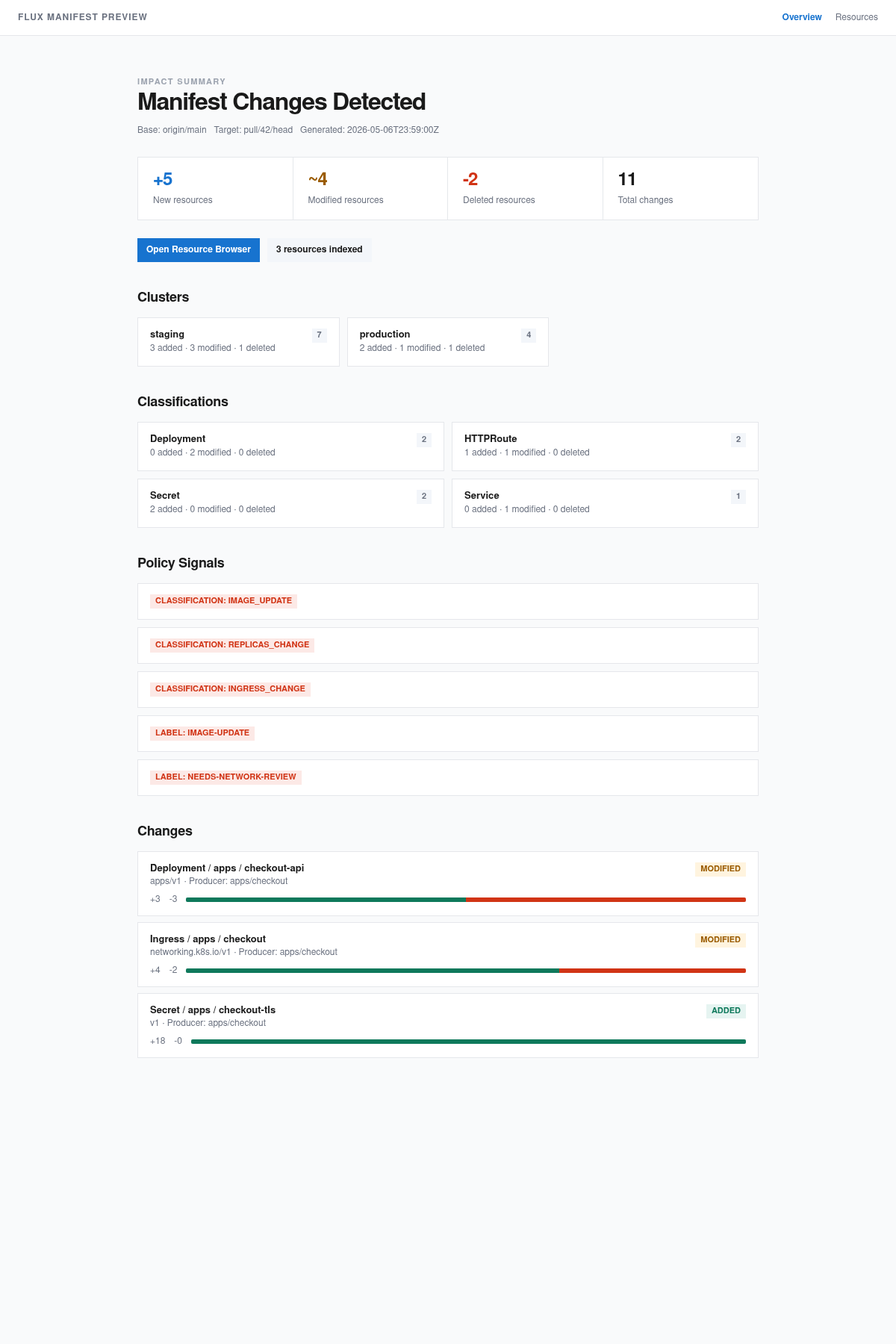
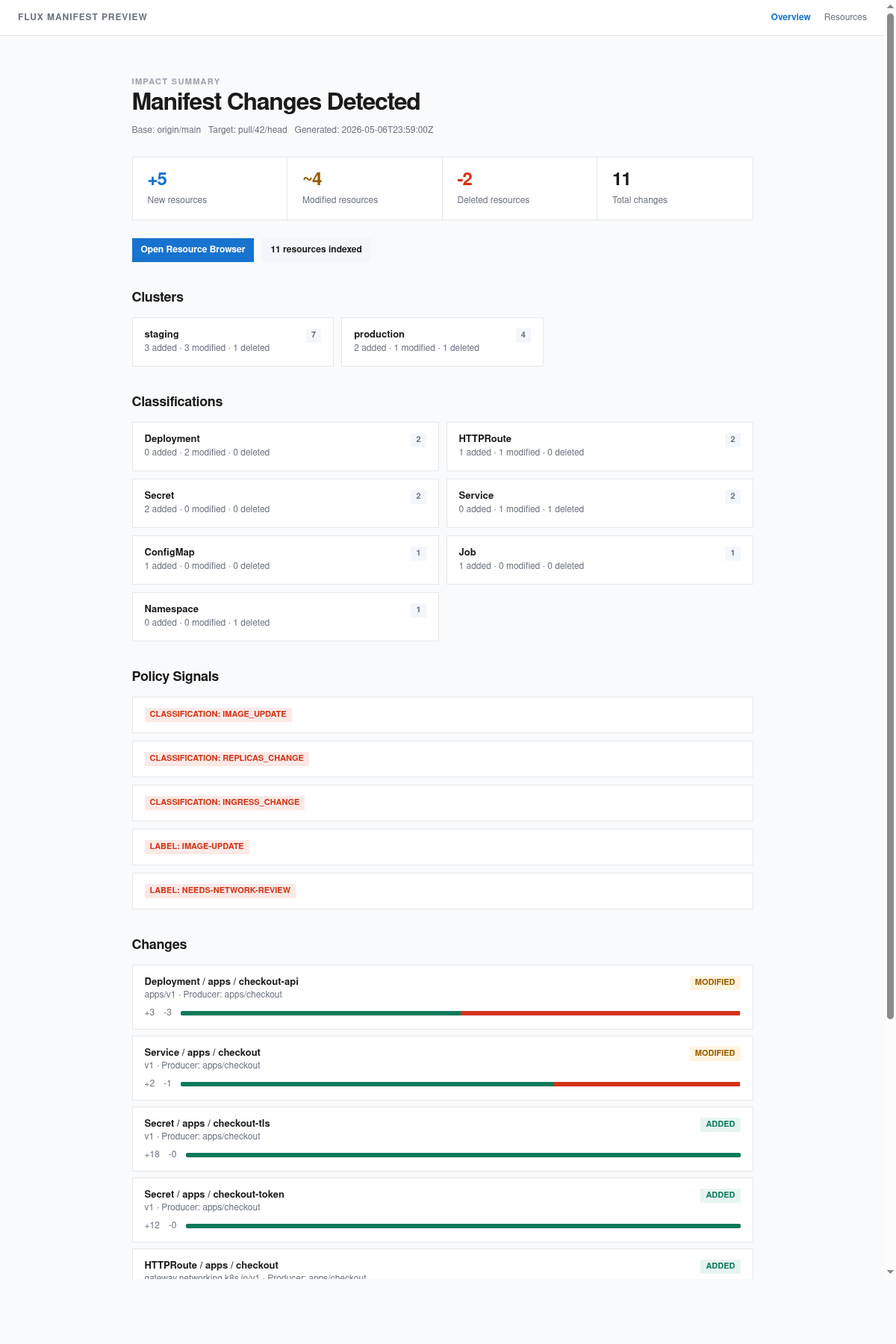
docs: make sample report data consistent

diff --git a/docs/examples/fmp-report-example.html b/docs/examples/fmp-report-example.html
@@ -211,7 +211,7 @@ input, select { background: var(--input-bg); border: 1px solid var(--border); co
     </nav>
   </header>
   <main id="app" class="app" tabindex="-1"></main>
-  <script type="application/json" id="fmp-report-data">{"meta":{"status":"changed","generatedAt":"2026-05-06T23:59:00Z","base":"origin/main","target":"pull/42/head","diffBytes":18432,"diffTruncated":false},"summary":{"added":5,"modified":4,"deleted":2,"total":11,"kindBreakdown":{"Deployment":{"added":0,"modified":2,"deleted":0,"total":2},"HTTPRoute":{"added":1,"modified":1,"deleted":0,"total":2},"Secret":{"added":2,"modified":0,"deleted":0,"total":2},"Service":{"added":0,"modified":1,"deleted":0,"total":1}},"clusterBreakdown":{"production":{"added":2,"modified":1,"deleted":1,"total":4},"staging":{"added":3,"modified":3,"deleted":1,"total":7}}},"policies":{"classifications":[{"id":"image_update","severity":"info"},{"id":"replicas_change","severity":"warning"},{"id":"ingress_change","severity":"warning"}],"labels":["image-update","needs-network-review"],"policyFailed":false},"resources":[{"index":0,"id":"flux-system|apps/v1|Deployment|apps|checkout-api","action":"modified","cluster":"staging","apiVersion":"apps/v1","kind":"Deployment","namespace":"apps","name":"checkout-api","producer":"apps/checkout","addedLines":3,"deletedLines":3,"diffRows":[{"type":"hunk","oldText":"@@ -17,12 +17,12 @@","newText":"@@ -17,12 +17,12 @@"},{"type":"context","oldLine":17,"newLine":17,"oldText":"apiVersion: apps/v1","newText":"apiVersion: apps/v1"},{"type":"context","oldLine":18,"newLine":18,"oldText":"kind: Deployment","newText":"kind: Deployment"},{"type":"context","oldLine":19,"newLine":19,"oldText":"metadata:","newText":"metadata:"},{"type":"context","oldLine":20,"newLine":20,"oldText":"  name: checkout-api","newText":"  name: checkout-api"},{"type":"context","oldLine":21,"newLine":21,"oldText":"  namespace: apps","newText":"  namespace: apps"},{"type":"deleted","oldLine":22,"oldText":"  replicas: 2"},{"type":"added","newLine":22,"newText":"  replicas: 4"},{"type":"context","oldLine":23,"newLine":23,"oldText":"spec:","newText":"spec:"},{"type":"context","oldLine":24,"newLine":24,"oldText":"  template:","newText":"  template:"},{"type":"context","oldLine":25,"newLine":25,"oldText":"    spec:","newText":"    spec:"},{"type":"context","oldLine":26,"newLine":26,"oldText":"      containers:","newText":"      containers:"},{"type":"context","oldLine":27,"newLine":27,"oldText":"        - name: checkout-api","newText":"        - name: checkout-api"},{"type":"deleted","oldLine":28,"oldText":"          image: ghcr.io/example/checkout-api:1.12.0"},{"type":"added","newLine":28,"newText":"          image: ghcr.io/example/checkout-api:1.13.0"},{"type":"context","oldLine":29,"newLine":29,"oldText":"          ports:","newText":"          ports:"},{"type":"context","oldLine":30,"newLine":30,"oldText":"            - containerPort: 8080","newText":"            - containerPort: 8080"},{"type":"deleted","oldLine":31,"oldText":"          resources: {requests: {cpu: 100m, memory: 128Mi}}"},{"type":"added","newLine":31,"newText":"          resources: {requests: {cpu: 250m, memory: 256Mi}}"}]},{"index":1,"id":"flux-system|networking.k8s.io/v1|Ingress|apps|checkout","action":"modified","cluster":"production","apiVersion":"networking.k8s.io/v1","kind":"Ingress","namespace":"apps","name":"checkout","producer":"apps/checkout","addedLines":4,"deletedLines":2,"diffRows":[{"type":"hunk","oldText":"@@ -17,12 +17,12 @@","newText":"@@ -17,12 +17,12 @@"},{"type":"context","oldLine":17,"newLine":17,"oldText":"apiVersion: apps/v1","newText":"apiVersion: apps/v1"},{"type":"context","oldLine":18,"newLine":18,"oldText":"kind: Deployment","newText":"kind: Deployment"},{"type":"context","oldLine":19,"newLine":19,"oldText":"metadata:","newText":"metadata:"},{"type":"context","oldLine":20,"newLine":20,"oldText":"  name: checkout-api","newText":"  name: checkout-api"},{"type":"context","oldLine":21,"newLine":21,"oldText":"  namespace: apps","newText":"  namespace: apps"},{"type":"deleted","oldLine":22,"oldText":"  replicas: 2"},{"type":"added","newLine":22,"newText":"  replicas: 4"},{"type":"context","oldLine":23,"newLine":23,"oldText":"spec:","newText":"spec:"},{"type":"context","oldLine":24,"newLine":24,"oldText":"  template:","newText":"  template:"},{"type":"context","oldLine":25,"newLine":25,"oldText":"    spec:","newText":"    spec:"},{"type":"context","oldLine":26,"newLine":26,"oldText":"      containers:","newText":"      containers:"},{"type":"context","oldLine":27,"newLine":27,"oldText":"        - name: checkout-api","newText":"        - name: checkout-api"},{"type":"deleted","oldLine":28,"oldText":"          image: ghcr.io/example/checkout-api:1.12.0"},{"type":"added","newLine":28,"newText":"          image: ghcr.io/example/checkout-api:1.13.0"},{"type":"context","oldLine":29,"newLine":29,"oldText":"          ports:","newText":"          ports:"},{"type":"context","oldLine":30,"newLine":30,"oldText":"            - containerPort: 8080","newText":"            - containerPort: 8080"},{"type":"deleted","oldLine":31,"oldText":"          resources: {requests: {cpu: 100m, memory: 128Mi}}"},{"type":"added","newLine":31,"newText":"          resources: {requests: {cpu: 250m, memory: 256Mi}}"}]},{"index":2,"id":"flux-system|v1|Secret|apps|checkout-tls","action":"added","cluster":"staging","apiVersion":"v1","kind":"Secret","namespace":"apps","name":"checkout-tls","producer":"apps/checkout","addedLines":18,"deletedLines":0,"diffRows":[{"type":"hunk","oldText":"@@ -17,12 +17,12 @@","newText":"@@ -17,12 +17,12 @@"},{"type":"context","oldLine":17,"newLine":17,"oldText":"apiVersion: apps/v1","newText":"apiVersion: apps/v1"},{"type":"context","oldLine":18,"newLine":18,"oldText":"kind: Deployment","newText":"kind: Deployment"},{"type":"context","oldLine":19,"newLine":19,"oldText":"metadata:","newText":"metadata:"},{"type":"context","oldLine":20,"newLine":20,"oldText":"  name: checkout-api","newText":"  name: checkout-api"},{"type":"context","oldLine":21,"newLine":21,"oldText":"  namespace: apps","newText":"  namespace: apps"},{"type":"deleted","oldLine":22,"oldText":"  replicas: 2"},{"type":"added","newLine":22,"newText":"  replicas: 4"},{"type":"context","oldLine":23,"newLine":23,"oldText":"spec:","newText":"spec:"},{"type":"context","oldLine":24,"newLine":24,"oldText":"  template:","newText":"  template:"},{"type":"context","oldLine":25,"newLine":25,"oldText":"    spec:","newText":"    spec:"},{"type":"context","oldLine":26,"newLine":26,"oldText":"      containers:","newText":"      containers:"},{"type":"context","oldLine":27,"newLine":27,"oldText":"        - name: checkout-api","newText":"        - name: checkout-api"},{"type":"deleted","oldLine":28,"oldText":"          image: ghcr.io/example/checkout-api:1.12.0"},{"type":"added","newLine":28,"newText":"          image: ghcr.io/example/checkout-api:1.13.0"},{"type":"context","oldLine":29,"newLine":29,"oldText":"          ports:","newText":"          ports:"},{"type":"context","oldLine":30,"newLine":30,"oldText":"            - containerPort: 8080","newText":"            - containerPort: 8080"},{"type":"deleted","oldLine":31,"oldText":"          resources: {requests: {cpu: 100m, memory: 128Mi}}"},{"type":"added","newLine":31,"newText":"          resources: {requests: {cpu: 250m, memory: 256Mi}}"}]}]}</script>
+  <script type="application/json" id="fmp-report-data">{"meta":{"status":"changed","generatedAt":"2026-05-06T23:59:00Z","base":"origin/main","target":"pull/42/head","diffBytes":18432,"diffTruncated":false},"summary":{"added":5,"modified":4,"deleted":2,"total":11,"kindBreakdown":{"ConfigMap":{"added":1,"modified":0,"deleted":0,"total":1},"Deployment":{"added":0,"modified":2,"deleted":0,"total":2},"HTTPRoute":{"added":1,"modified":1,"deleted":0,"total":2},"Job":{"added":1,"modified":0,"deleted":0,"total":1},"Namespace":{"added":0,"modified":0,"deleted":1,"total":1},"Secret":{"added":2,"modified":0,"deleted":0,"total":2},"Service":{"added":0,"modified":1,"deleted":1,"total":2}},"clusterBreakdown":{"production":{"added":2,"modified":1,"deleted":1,"total":4},"staging":{"added":3,"modified":3,"deleted":1,"total":7}}},"policies":{"classifications":[{"id":"image_update","severity":"info"},{"id":"replicas_change","severity":"warning"},{"id":"ingress_change","severity":"warning"}],"labels":["image-update","needs-network-review"],"policyFailed":false},"resources":[{"index":0,"id":"apps/checkout|apps/v1|Deployment|apps|checkout-api","action":"modified","cluster":"staging","apiVersion":"apps/v1","kind":"Deployment","namespace":"apps","name":"checkout-api","producer":"apps/checkout","addedLines":3,"deletedLines":3,"diffRows":[{"type":"hunk","oldText":"@@ -17,12 +17,12 @@","newText":"@@ -17,12 +17,12 @@"},{"type":"context","oldLine":17,"newLine":17,"oldText":"apiVersion: apps/v1","newText":"apiVersion: apps/v1"},{"type":"context","oldLine":18,"newLine":18,"oldText":"kind: Deployment","newText":"kind: Deployment"},{"type":"context","oldLine":19,"newLine":19,"oldText":"metadata:","newText":"metadata:"},{"type":"context","oldLine":20,"newLine":20,"oldText":"  name: checkout-api","newText":"  name: checkout-api"},{"type":"context","oldLine":21,"newLine":21,"oldText":"  namespace: apps","newText":"  namespace: apps"},{"type":"deleted","oldLine":22,"oldText":"  replicas: 2"},{"type":"added","newLine":22,"newText":"  replicas: 4"},{"type":"context","oldLine":23,"newLine":23,"oldText":"spec:","newText":"spec:"},{"type":"context","oldLine":24,"newLine":24,"oldText":"  template:","newText":"  template:"},{"type":"context","oldLine":25,"newLine":25,"oldText":"    spec:","newText":"    spec:"},{"type":"context","oldLine":26,"newLine":26,"oldText":"      containers:","newText":"      containers:"},{"type":"context","oldLine":27,"newLine":27,"oldText":"        - name: checkout-api","newText":"        - name: checkout-api"},{"type":"deleted","oldLine":28,"oldText":"          image: ghcr.io/example/checkout-api:1.12.0"},{"type":"added","newLine":28,"newText":"          image: ghcr.io/example/checkout-api:1.13.0"},{"type":"context","oldLine":29,"newLine":29,"oldText":"          ports:","newText":"          ports:"},{"type":"context","oldLine":30,"newLine":30,"oldText":"            - containerPort: 8080","newText":"            - containerPort: 8080"}]},{"index":1,"id":"apps/checkout|v1|Service|apps|checkout","action":"modified","cluster":"staging","apiVersion":"v1","kind":"Service","namespace":"apps","name":"checkout","producer":"apps/checkout","addedLines":2,"deletedLines":1,"diffRows":[{"type":"hunk","oldText":"@@ -17,12 +17,12 @@","newText":"@@ -17,12 +17,12 @@"},{"type":"context","oldLine":17,"newLine":17,"oldText":"apiVersion: apps/v1","newText":"apiVersion: apps/v1"},{"type":"context","oldLine":18,"newLine":18,"oldText":"kind: Deployment","newText":"kind: Deployment"},{"type":"context","oldLine":19,"newLine":19,"oldText":"metadata:","newText":"metadata:"},{"type":"context","oldLine":20,"newLine":20,"oldText":"  name: checkout","newText":"  name: checkout"},{"type":"context","oldLine":21,"newLine":21,"oldText":"  namespace: apps","newText":"  namespace: apps"},{"type":"deleted","oldLine":22,"oldText":"  replicas: 2"},{"type":"added","newLine":22,"newText":"  replicas: 4"},{"type":"context","oldLine":23,"newLine":23,"oldText":"spec:","newText":"spec:"},{"type":"context","oldLine":24,"newLine":24,"oldText":"  template:","newText":"  template:"},{"type":"context","oldLine":25,"newLine":25,"oldText":"    spec:","newText":"    spec:"},{"type":"context","oldLine":26,"newLine":26,"oldText":"      containers:","newText":"      containers:"},{"type":"context","oldLine":27,"newLine":27,"oldText":"        - name: checkout","newText":"        - name: checkout"},{"type":"deleted","oldLine":28,"oldText":"          image: ghcr.io/example/checkout:1.12.0"},{"type":"added","newLine":28,"newText":"          image: ghcr.io/example/checkout:1.13.0"},{"type":"context","oldLine":29,"newLine":29,"oldText":"          ports:","newText":"          ports:"},{"type":"context","oldLine":30,"newLine":30,"oldText":"            - containerPort: 8080","newText":"            - containerPort: 8080"}]},{"index":2,"id":"apps/checkout|v1|Secret|apps|checkout-tls","action":"added","cluster":"staging","apiVersion":"v1","kind":"Secret","namespace":"apps","name":"checkout-tls","producer":"apps/checkout","addedLines":18,"deletedLines":0,"diffRows":[{"type":"hunk","oldText":"@@ -17,12 +17,12 @@","newText":"@@ -17,12 +17,12 @@"},{"type":"context","oldLine":17,"newLine":17,"oldText":"apiVersion: apps/v1","newText":"apiVersion: apps/v1"},{"type":"context","oldLine":18,"newLine":18,"oldText":"kind: Deployment","newText":"kind: Deployment"},{"type":"context","oldLine":19,"newLine":19,"oldText":"metadata:","newText":"metadata:"},{"type":"context","oldLine":20,"newLine":20,"oldText":"  name: checkout-tls","newText":"  name: checkout-tls"},{"type":"context","oldLine":21,"newLine":21,"oldText":"  namespace: apps","newText":"  namespace: apps"},{"type":"deleted","oldLine":22,"oldText":"  replicas: 2"},{"type":"added","newLine":22,"newText":"  replicas: 4"},{"type":"context","oldLine":23,"newLine":23,"oldText":"spec:","newText":"spec:"},{"type":"context","oldLine":24,"newLine":24,"oldText":"  template:","newText":"  template:"},{"type":"context","oldLine":25,"newLine":25,"oldText":"    spec:","newText":"    spec:"},{"type":"context","oldLine":26,"newLine":26,"oldText":"      containers:","newText":"      containers:"},{"type":"context","oldLine":27,"newLine":27,"oldText":"        - name: checkout-tls","newText":"        - name: checkout-tls"},{"type":"deleted","oldLine":28,"oldText":"          image: ghcr.io/example/checkout-tls:1.12.0"},{"type":"added","newLine":28,"newText":"          image: ghcr.io/example/checkout-tls:1.13.0"},{"type":"context","oldLine":29,"newLine":29,"oldText":"          ports:","newText":"          ports:"},{"type":"context","oldLine":30,"newLine":30,"oldText":"            - containerPort: 8080","newText":"            - containerPort: 8080"}]},{"index":3,"id":"apps/checkout|v1|Secret|apps|checkout-token","action":"added","cluster":"staging","apiVersion":"v1","kind":"Secret","namespace":"apps","name":"checkout-token","producer":"apps/checkout","addedLines":12,"deletedLines":0,"diffRows":[{"type":"hunk","oldText":"@@ -17,12 +17,12 @@","newText":"@@ -17,12 +17,12 @@"},{"type":"context","oldLine":17,"newLine":17,"oldText":"apiVersion: apps/v1","newText":"apiVersion: apps/v1"},{"type":"context","oldLine":18,"newLine":18,"oldText":"kind: Deployment","newText":"kind: Deployment"},{"type":"context","oldLine":19,"newLine":19,"oldText":"metadata:","newText":"metadata:"},{"type":"context","oldLine":20,"newLine":20,"oldText":"  name: checkout-token","newText":"  name: checkout-token"},{"type":"context","oldLine":21,"newLine":21,"oldText":"  namespace: apps","newText":"  namespace: apps"},{"type":"deleted","oldLine":22,"oldText":"  replicas: 2"},{"type":"added","newLine":22,"newText":"  replicas: 4"},{"type":"context","oldLine":23,"newLine":23,"oldText":"spec:","newText":"spec:"},{"type":"context","oldLine":24,"newLine":24,"oldText":"  template:","newText":"  template:"},{"type":"context","oldLine":25,"newLine":25,"oldText":"    spec:","newText":"    spec:"},{"type":"context","oldLine":26,"newLine":26,"oldText":"      containers:","newText":"      containers:"},{"type":"context","oldLine":27,"newLine":27,"oldText":"        - name: checkout-token","newText":"        - name: checkout-token"},{"type":"deleted","oldLine":28,"oldText":"          image: ghcr.io/example/checkout-token:1.12.0"},{"type":"added","newLine":28,"newText":"          image: ghcr.io/example/checkout-token:1.13.0"},{"type":"context","oldLine":29,"newLine":29,"oldText":"          ports:","newText":"          ports:"},{"type":"context","oldLine":30,"newLine":30,"oldText":"            - containerPort: 8080","newText":"            - containerPort: 8080"}]},{"index":4,"id":"apps/checkout|gateway.networking.k8s.io/v1|HTTPRoute|apps|checkout","action":"added","cluster":"staging","apiVersion":"gateway.networking.k8s.io/v1","kind":"HTTPRoute","namespace":"apps","name":"checkout","producer":"apps/checkout","addedLines":9,"deletedLines":0,"diffRows":[{"type":"hunk","oldText":"@@ -17,12 +17,12 @@","newText":"@@ -17,12 +17,12 @@"},{"type":"context","oldLine":17,"newLine":17,"oldText":"apiVersion: apps/v1","newText":"apiVersion: apps/v1"},{"type":"context","oldLine":18,"newLine":18,"oldText":"kind: Deployment","newText":"kind: Deployment"},{"type":"context","oldLine":19,"newLine":19,"oldText":"metadata:","newText":"metadata:"},{"type":"context","oldLine":20,"newLine":20,"oldText":"  name: checkout","newText":"  name: checkout"},{"type":"context","oldLine":21,"newLine":21,"oldText":"  namespace: apps","newText":"  namespace: apps"},{"type":"deleted","oldLine":22,"oldText":"  replicas: 2"},{"type":"added","newLine":22,"newText":"  replicas: 4"},{"type":"context","oldLine":23,"newLine":23,"oldText":"spec:","newText":"spec:"},{"type":"context","oldLine":24,"newLine":24,"oldText":"  template:","newText":"  template:"},{"type":"context","oldLine":25,"newLine":25,"oldText":"    spec:","newText":"    spec:"},{"type":"context","oldLine":26,"newLine":26,"oldText":"      containers:","newText":"      containers:"},{"type":"context","oldLine":27,"newLine":27,"oldText":"        - name: checkout","newText":"        - name: checkout"},{"type":"deleted","oldLine":28,"oldText":"          image: ghcr.io/example/checkout:1.12.0"},{"type":"added","newLine":28,"newText":"          image: ghcr.io/example/checkout:1.13.0"},{"type":"context","oldLine":29,"newLine":29,"oldText":"          ports:","newText":"          ports:"},{"type":"context","oldLine":30,"newLine":30,"oldText":"            - containerPort: 8080","newText":"            - containerPort: 8080"}]},{"index":5,"id":"apps/payments|gateway.networking.k8s.io/v1|HTTPRoute|apps|payments","action":"modified","cluster":"staging","apiVersion":"gateway.networking.k8s.io/v1","kind":"HTTPRoute","namespace":"apps","name":"payments","producer":"apps/payments","addedLines":4,"deletedLines":2,"diffRows":[{"type":"hunk","oldText":"@@ -17,12 +17,12 @@","newText":"@@ -17,12 +17,12 @@"},{"type":"context","oldLine":17,"newLine":17,"oldText":"apiVersion: apps/v1","newText":"apiVersion: apps/v1"},{"type":"context","oldLine":18,"newLine":18,"oldText":"kind: Deployment","newText":"kind: Deployment"},{"type":"context","oldLine":19,"newLine":19,"oldText":"metadata:","newText":"metadata:"},{"type":"context","oldLine":20,"newLine":20,"oldText":"  name: payments","newText":"  name: payments"},{"type":"context","oldLine":21,"newLine":21,"oldText":"  namespace: apps","newText":"  namespace: apps"},{"type":"deleted","oldLine":22,"oldText":"  replicas: 2"},{"type":"added","newLine":22,"newText":"  replicas: 4"},{"type":"context","oldLine":23,"newLine":23,"oldText":"spec:","newText":"spec:"},{"type":"context","oldLine":24,"newLine":24,"oldText":"  template:","newText":"  template:"},{"type":"context","oldLine":25,"newLine":25,"oldText":"    spec:","newText":"    spec:"},{"type":"context","oldLine":26,"newLine":26,"oldText":"      containers:","newText":"      containers:"},{"type":"context","oldLine":27,"newLine":27,"oldText":"        - name: payments","newText":"        - name: payments"},{"type":"deleted","oldLine":28,"oldText":"          image: ghcr.io/example/payments:1.12.0"},{"type":"added","newLine":28,"newText":"          image: ghcr.io/example/payments:1.13.0"},{"type":"context","oldLine":29,"newLine":29,"oldText":"          ports:","newText":"          ports:"},{"type":"context","oldLine":30,"newLine":30,"oldText":"            - containerPort: 8080","newText":"            - containerPort: 8080"}]},{"index":6,"id":"platform/namespaces|v1|Namespace||legacy-preview","action":"deleted","cluster":"staging","apiVersion":"v1","kind":"Namespace","namespace":"","name":"legacy-preview","producer":"platform/namespaces","addedLines":0,"deletedLines":14,"diffRows":[{"type":"hunk","oldText":"@@ -17,12 +17,12 @@","newText":"@@ -17,12 +17,12 @@"},{"type":"context","oldLine":17,"newLine":17,"oldText":"apiVersion: apps/v1","newText":"apiVersion: apps/v1"},{"type":"context","oldLine":18,"newLine":18,"oldText":"kind: Deployment","newText":"kind: Deployment"},{"type":"context","oldLine":19,"newLine":19,"oldText":"metadata:","newText":"metadata:"},{"type":"context","oldLine":20,"newLine":20,"oldText":"  name: legacy-preview","newText":"  name: legacy-preview"},{"type":"context","oldLine":21,"newLine":21,"oldText":"  namespace: apps","newText":"  namespace: apps"},{"type":"deleted","oldLine":22,"oldText":"  replicas: 2"},{"type":"added","newLine":22,"newText":"  replicas: 4"},{"type":"context","oldLine":23,"newLine":23,"oldText":"spec:","newText":"spec:"},{"type":"context","oldLine":24,"newLine":24,"oldText":"  template:","newText":"  template:"},{"type":"context","oldLine":25,"newLine":25,"oldText":"    spec:","newText":"    spec:"},{"type":"context","oldLine":26,"newLine":26,"oldText":"      containers:","newText":"      containers:"},{"type":"context","oldLine":27,"newLine":27,"oldText":"        - name: legacy-preview","newText":"        - name: legacy-preview"},{"type":"deleted","oldLine":28,"oldText":"          image: ghcr.io/example/legacy-preview:1.12.0"},{"type":"added","newLine":28,"newText":"          image: ghcr.io/example/legacy-preview:1.13.0"},{"type":"context","oldLine":29,"newLine":29,"oldText":"          ports:","newText":"          ports:"},{"type":"context","oldLine":30,"newLine":30,"oldText":"            - containerPort: 8080","newText":"            - containerPort: 8080"}]},{"index":7,"id":"apps/payments|apps/v1|Deployment|apps|payments-api","action":"modified","cluster":"production","apiVersion":"apps/v1","kind":"Deployment","namespace":"apps","name":"payments-api","producer":"apps/payments","addedLines":2,"deletedLines":2,"diffRows":[{"type":"hunk","oldText":"@@ -17,12 +17,12 @@","newText":"@@ -17,12 +17,12 @@"},{"type":"context","oldLine":17,"newLine":17,"oldText":"apiVersion: apps/v1","newText":"apiVersion: apps/v1"},{"type":"context","oldLine":18,"newLine":18,"oldText":"kind: Deployment","newText":"kind: Deployment"},{"type":"context","oldLine":19,"newLine":19,"oldText":"metadata:","newText":"metadata:"},{"type":"context","oldLine":20,"newLine":20,"oldText":"  name: payments-api","newText":"  name: payments-api"},{"type":"context","oldLine":21,"newLine":21,"oldText":"  namespace: apps","newText":"  namespace: apps"},{"type":"deleted","oldLine":22,"oldText":"  replicas: 2"},{"type":"added","newLine":22,"newText":"  replicas: 4"},{"type":"context","oldLine":23,"newLine":23,"oldText":"spec:","newText":"spec:"},{"type":"context","oldLine":24,"newLine":24,"oldText":"  template:","newText":"  template:"},{"type":"context","oldLine":25,"newLine":25,"oldText":"    spec:","newText":"    spec:"},{"type":"context","oldLine":26,"newLine":26,"oldText":"      containers:","newText":"      containers:"},{"type":"context","oldLine":27,"newLine":27,"oldText":"        - name: payments-api","newText":"        - name: payments-api"},{"type":"deleted","oldLine":28,"oldText":"          image: ghcr.io/example/payments-api:1.12.0"},{"type":"added","newLine":28,"newText":"          image: ghcr.io/example/payments-api:1.13.0"},{"type":"context","oldLine":29,"newLine":29,"oldText":"          ports:","newText":"          ports:"},{"type":"context","oldLine":30,"newLine":30,"oldText":"            - containerPort: 8080","newText":"            - containerPort: 8080"}]},{"index":8,"id":"apps/legacy|v1|Service|apps|legacy-api","action":"deleted","cluster":"production","apiVersion":"v1","kind":"Service","namespace":"apps","name":"legacy-api","producer":"apps/legacy","addedLines":0,"deletedLines":11,"diffRows":[{"type":"hunk","oldText":"@@ -17,12 +17,12 @@","newText":"@@ -17,12 +17,12 @@"},{"type":"context","oldLine":17,"newLine":17,"oldText":"apiVersion: apps/v1","newText":"apiVersion: apps/v1"},{"type":"context","oldLine":18,"newLine":18,"oldText":"kind: Deployment","newText":"kind: Deployment"},{"type":"context","oldLine":19,"newLine":19,"oldText":"metadata:","newText":"metadata:"},{"type":"context","oldLine":20,"newLine":20,"oldText":"  name: legacy-api","newText":"  name: legacy-api"},{"type":"context","oldLine":21,"newLine":21,"oldText":"  namespace: apps","newText":"  namespace: apps"},{"type":"deleted","oldLine":22,"oldText":"  replicas: 2"},{"type":"added","newLine":22,"newText":"  replicas: 4"},{"type":"context","oldLine":23,"newLine":23,"oldText":"spec:","newText":"spec:"},{"type":"context","oldLine":24,"newLine":24,"oldText":"  template:","newText":"  template:"},{"type":"context","oldLine":25,"newLine":25,"oldText":"    spec:","newText":"    spec:"},{"type":"context","oldLine":26,"newLine":26,"oldText":"      containers:","newText":"      containers:"},{"type":"context","oldLine":27,"newLine":27,"oldText":"        - name: legacy-api","newText":"        - name: legacy-api"},{"type":"deleted","oldLine":28,"oldText":"          image: ghcr.io/example/legacy-api:1.12.0"},{"type":"added","newLine":28,"newText":"          image: ghcr.io/example/legacy-api:1.13.0"},{"type":"context","oldLine":29,"newLine":29,"oldText":"          ports:","newText":"          ports:"},{"type":"context","oldLine":30,"newLine":30,"oldText":"            - containerPort: 8080","newText":"            - containerPort: 8080"}]},{"index":9,"id":"apps/platform|v1|ConfigMap|apps|feature-flags","action":"added","cluster":"production","apiVersion":"v1","kind":"ConfigMap","namespace":"apps","name":"feature-flags","producer":"apps/platform","addedLines":7,"deletedLines":0,"diffRows":[{"type":"hunk","oldText":"@@ -17,12 +17,12 @@","newText":"@@ -17,12 +17,12 @@"},{"type":"context","oldLine":17,"newLine":17,"oldText":"apiVersion: apps/v1","newText":"apiVersion: apps/v1"},{"type":"context","oldLine":18,"newLine":18,"oldText":"kind: Deployment","newText":"kind: Deployment"},{"type":"context","oldLine":19,"newLine":19,"oldText":"metadata:","newText":"metadata:"},{"type":"context","oldLine":20,"newLine":20,"oldText":"  name: feature-flags","newText":"  name: feature-flags"},{"type":"context","oldLine":21,"newLine":21,"oldText":"  namespace: apps","newText":"  namespace: apps"},{"type":"deleted","oldLine":22,"oldText":"  replicas: 2"},{"type":"added","newLine":22,"newText":"  replicas: 4"},{"type":"context","oldLine":23,"newLine":23,"oldText":"spec:","newText":"spec:"},{"type":"context","oldLine":24,"newLine":24,"oldText":"  template:","newText":"  template:"},{"type":"context","oldLine":25,"newLine":25,"oldText":"    spec:","newText":"    spec:"},{"type":"context","oldLine":26,"newLine":26,"oldText":"      containers:","newText":"      containers:"},{"type":"context","oldLine":27,"newLine":27,"oldText":"        - name: feature-flags","newText":"        - name: feature-flags"},{"type":"deleted","oldLine":28,"oldText":"          image: ghcr.io/example/feature-flags:1.12.0"},{"type":"added","newLine":28,"newText":"          image: ghcr.io/example/feature-flags:1.13.0"},{"type":"context","oldLine":29,"newLine":29,"oldText":"          ports:","newText":"          ports:"},{"type":"context","oldLine":30,"newLine":30,"oldText":"            - containerPort: 8080","newText":"            - containerPort: 8080"}]},{"index":10,"id":"ops/migrations|batch/v1|Job|ops|db-migrate","action":"added","cluster":"production","apiVersion":"batch/v1","kind":"Job","namespace":"ops","name":"db-migrate","producer":"ops/migrations","addedLines":16,"deletedLines":0,"diffRows":[{"type":"hunk","oldText":"@@ -17,12 +17,12 @@","newText":"@@ -17,12 +17,12 @@"},{"type":"context","oldLine":17,"newLine":17,"oldText":"apiVersion: apps/v1","newText":"apiVersion: apps/v1"},{"type":"context","oldLine":18,"newLine":18,"oldText":"kind: Deployment","newText":"kind: Deployment"},{"type":"context","oldLine":19,"newLine":19,"oldText":"metadata:","newText":"metadata:"},{"type":"context","oldLine":20,"newLine":20,"oldText":"  name: db-migrate","newText":"  name: db-migrate"},{"type":"context","oldLine":21,"newLine":21,"oldText":"  namespace: apps","newText":"  namespace: apps"},{"type":"deleted","oldLine":22,"oldText":"  replicas: 2"},{"type":"added","newLine":22,"newText":"  replicas: 4"},{"type":"context","oldLine":23,"newLine":23,"oldText":"spec:","newText":"spec:"},{"type":"context","oldLine":24,"newLine":24,"oldText":"  template:","newText":"  template:"},{"type":"context","oldLine":25,"newLine":25,"oldText":"    spec:","newText":"    spec:"},{"type":"context","oldLine":26,"newLine":26,"oldText":"      containers:","newText":"      containers:"},{"type":"context","oldLine":27,"newLine":27,"oldText":"        - name: db-migrate","newText":"        - name: db-migrate"},{"type":"deleted","oldLine":28,"oldText":"          image: ghcr.io/example/db-migrate:1.12.0"},{"type":"added","newLine":28,"newText":"          image: ghcr.io/example/db-migrate:1.13.0"},{"type":"context","oldLine":29,"newLine":29,"oldText":"          ports:","newText":"          ports:"},{"type":"context","oldLine":30,"newLine":30,"oldText":"            - containerPort: 8080","newText":"            - containerPort: 8080"}]}]}</script>
   <script>(() => {
   const data = JSON.parse(document.getElementById('fmp-report-data').textContent)
   const app = document.getElementById('app')
